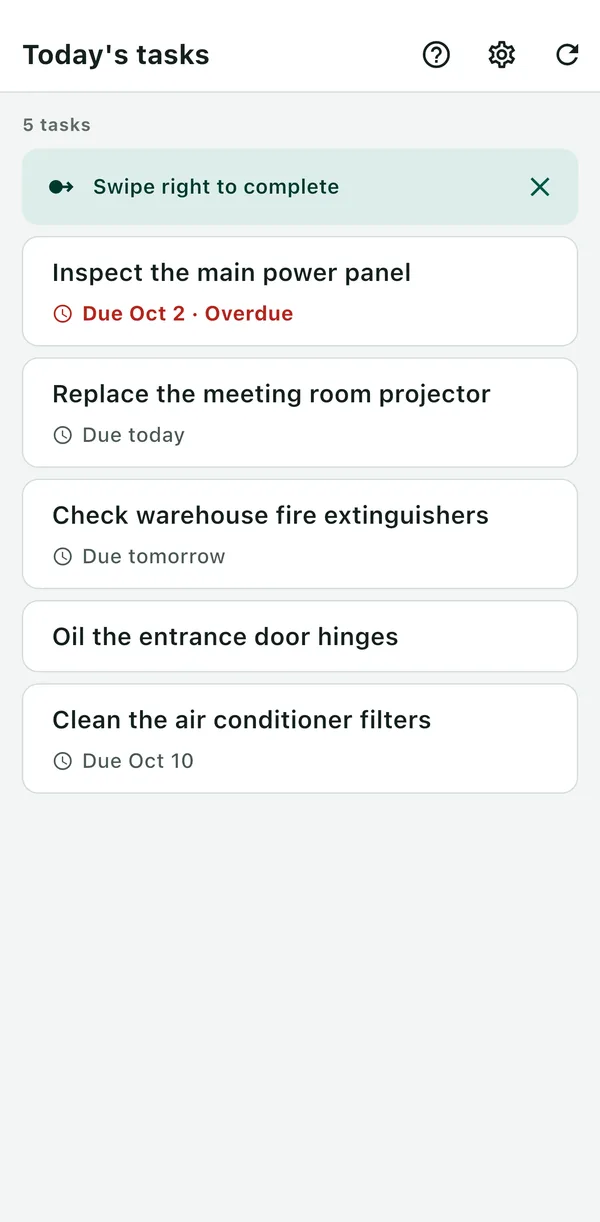
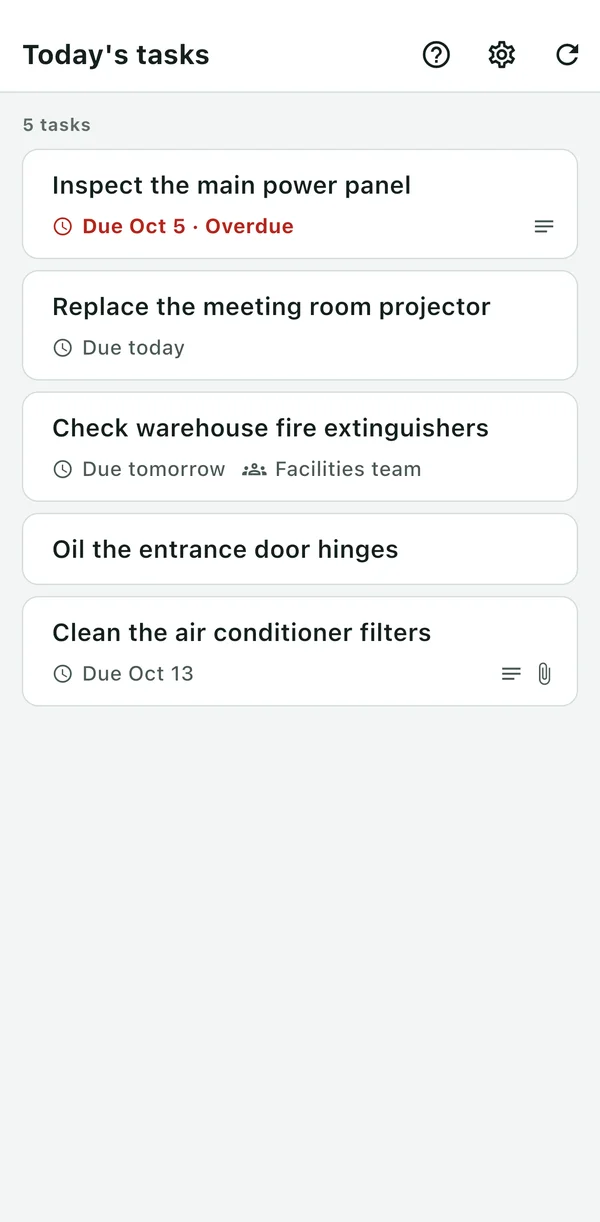
PBI-040 グループ担当のタスクと作業内容を、App Storeの利用者が使える（1.2.0の準備） (#49)
* feat: PBI-040 1.2.0の準備（言語別のフォルダ、審査用の模擬の作業内容とグループ、サポートと訳）

* feat: PBI-040 スクリーンショットを6言語で撮り直し、公開サイトの画像を作るスクリプトを足す

* feat: PBI-040 リリースの確認・アップロードのスクリプトとskillを足し、手順と完了条件を書く

* docs: PBI-040 のPRをバックログに書く

* fix: PBI-040 アップロードは、今のmainから変更なしで作ったアーカイブだけにする

archiveで作成元のコミット・変更の有無・中身の指紋を記録し、uploadで照合する。
作業ツリーに変更がある状態で作り、あとでmainに戻したアーカイブを送れていた（PRレビューの指摘）。

---------

diff --git a/fr/index.html b/fr/index.html
@@ -11,8 +11,8 @@
 <nav class="langs" aria-label="Language"><a href="../" hreflang="ja" lang="ja">日本語</a><a href="../en/" hreflang="en" lang="en">English</a><span aria-current="true" lang="fr">Français</span><a href="../de/" hreflang="de" lang="de">Deutsch</a><a href="../ko/" hreflang="ko" lang="ko">한국어</a><a href="../zh-hant/" hreflang="zh-Hant" lang="zh-Hant">繁體中文</a></nav>
 <p>Une application pour rendre compte, depuis votre iPhone et en quelques gestes, des tâches Redmine qui vous sont assignées. BeatMine n'est pas une application officielle de Redmine et n'a aucun lien avec les développeurs de Redmine.</p>
 <p><a class="button" href="https://apps.apple.com/app/id6815222410">Télécharger dans l’App Store</a></p>
-<ul class="points"><li>Seules vos tâches non terminées sont listées. Les tâches en retard apparaissent en rouge.</li><li>Balayez une tâche vers la droite pour la terminer. Vous pouvez annuler aussitôt.</li><li>Touchez une tâche pour envoyer un commentaire. Il est conservé dans l'historique de Redmine.</li></ul>
-<div class="shots"><figure><img src="../assets/screen-01-fr.webp" width="600" height="1222" alt="La liste des tâches du jour. Les tâches en retard s&#x27;affichent en rouge."><figcaption>Tâches du jour</figcaption></figure><figure><img src="../assets/screen-02-fr.webp" width="600" height="1222" alt="L&#x27;écran qui s&#x27;ouvre quand on touche une tâche, avec les boutons « Terminer » et « Commentaire »."><figcaption>Touchez pour terminer ou commenter</figcaption></figure></div>
+<ul class="points"><li>Seules les tâches non terminées qui vous sont assignées, à vous ou à un groupe dont vous faites partie, sont listées. Les tâches d'un groupe indiquent le nom du groupe. Les tâches en retard apparaissent en rouge.</li><li>Balayez une tâche vers la droite pour la terminer. Vous pouvez annuler aussitôt.</li><li>Touchez une tâche pour lire sa description et ses pièces jointes. Les images s'ouvrent dans l'app et peuvent être agrandies. Une icône signale les tâches qui ont une description ou des pièces jointes.</li><li>Touchez une tâche pour envoyer un commentaire. Il est conservé dans l'historique de Redmine.</li></ul>
+<div class="shots"><figure><img src="../assets/screen-01-fr.webp" width="600" height="1222" alt="La liste des tâches du jour. Les tâches en retard s&#x27;affichent en rouge."><figcaption>Tâches du jour</figcaption></figure><figure><img src="../assets/screen-02-fr.webp" width="600" height="1222" alt="L&#x27;écran qui s&#x27;ouvre quand on touche une tâche, avec sa description, ses pièces jointes et les boutons « Terminer » et « Commentaire »."><figcaption>Touchez pour voir le détail, terminer ou commenter</figcaption></figure></div>
 <nav class="toc" aria-label="Sur cette page"><a href="#need">Ce qu'il vous faut</a><a href="#start">Pour commencer</a><a href="#trouble">En cas de problème</a><a href="#faq">Autres questions fréquentes</a><a href="#unsupported">Non pris en charge</a><a href="#contact">Contact</a></nav>
 <h2 id="need">Ce qu'il vous faut</h2>
 <ul><li>Redmine 6.0, 6.1 ou 7.0.</li><li>Un accès HTTPS à ce Redmine depuis cet appareil.</li><li>L'API REST activée dans Redmine (un réglage de l'administrateur de Redmine).</li><li>Votre clé d'API. Si vous ne l'avez pas sous la main, utilisez « Obtenir la clé d'API dans Redmine » sur l'écran de connexion.</li></ul>
@@ -40,11 +40,19 @@
 <tr><td>« Impossible de confirmer l'envoi. Veuillez recharger. »</td><td>L'application n'a pas pu confirmer que la mise à jour est arrivée dans Redmine. Recharger permet de le vérifier à nouveau.<ul><li>Si Redmine est accessible mais que l'application ne peut toujours pas confirmer la mise à jour, elle cesse la vérification pour que vous puissiez continuer.</li><li>Tant que Redmine est inaccessible (sans réseau, par exemple), vous ne pouvez ni terminer ni commenter d'autres tâches avant la confirmation. Toutefois, si deux rechargements de suite ne permettent pas de confirmer, l'application cesse la vérification (le compte continue même si vous rouvrez l'application).</li><li>Un commentaire dont la vérification a cessé reste en brouillon. Il est peut-être déjà arrivé : le renvoyer peut créer un doublon.</li></ul></td></tr>
 <tr><td>« Erreur de l'application. Veuillez recharger. »</td><td>Si recharger ne règle rien, votre Redmine n'est peut-être pas pris en charge (antérieur à 6.0, par exemple).</td></tr>
 </table></div>
+<h3>Lors de l'affichage des descriptions et des pièces jointes</h3>
+<div class="table"><table><tr><th>Message</th><th>Ce que vous pouvez faire</th></tr>
+<tr><td>« Impossible d'ouvrir dans l'app »</td><td>Seules les images (JPEG, PNG, GIF, WebP, HEIC) de 20 Mo au plus s'ouvrent dans l'app. Ouvrez les PDF et les autres fichiers dans Redmine.</td></tr>
+<tr><td>« Impossible d'ouvrir le lien. »</td><td>Un lien de la description n'a pas pu s'ouvrir dans le navigateur de l'appareil. Le texte de la description peut être sélectionné et copié par un appui long ; collez-le dans le navigateur.</td></tr>
+</table></div>
+<p>Les messages comme « Erreur réseau » à l'ouverture d'une image ont le même sens que dans « Lors du chargement des tâches, de leur clôture ou de l'envoi d'un commentaire ». Touchez « Réessayer » pour recharger l'image.</p>
 <h2 id="faq">Autres questions fréquentes</h2>
 <dl>
 <dt>La tâche terminée a pris un statut inattendu (par exemple « Rejeté »)</dt><dd>l'application utilise le premier statut fermé autorisé pour cette tâche, dans l'ordre des statuts de Redmine. Le statut utilisé est indiqué dans la notification. Touchez « Annuler » sur la ligne terminée (ou dans la notification) pour revenir en arrière. Ce n'est plus possible après le rechargement de la liste, ou si Redmine n'autorise pas le retour au statut précédent. Dans ce cas, rétablissez le statut dans Redmine. Si l'administrateur de Redmine change l'ordre des statuts (en plaçant « Fermé » avant « Rejeté »), un autre statut est choisi.</dd>
 <dt>Redmine m'a demandé mon mot de passe pour afficher la clé d'API (Redmine 7.0)</dt><dd>Redmine redemande le mot de passe lorsque la connexion date d'un certain temps. Saisissez-le pour afficher votre clé d'API.</dd>
-<dt>Des tâches n'apparaissent pas</dt><dd>la liste ne montre que les tâches qui vous sont assignées, non fermées et dont la date de début n'est pas dans le futur. Les tâches des projets fermés ne sont pas affichées. La liste n'est pas filtrée par échéance.</dd>
+<dt>Des tâches n'apparaissent pas</dt><dd>la liste ne montre que les tâches assignées à vous ou à un groupe dont vous faites partie, non fermées et dont la date de début n'est pas dans le futur. Les tâches des projets fermés ne sont pas affichées. La liste n'est pas filtrée par échéance.</dd>
+<dt>Qui se charge d'une tâche de groupe ?</dt><dd>l'application ne le décide pas. Mettez-vous d'accord au sein du groupe, ou réassignez la tâche à une personne dans Redmine. Une tâche de groupe terminée disparaît aussi de la liste des autres membres du groupe.</dd>
+<dt>Des symboles comme « h2. » ou « * » apparaissent dans une description</dt><dd>l'application met en forme les descriptions comme du Markdown, uniquement pour les titres, listes, gras, liens et code. Les descriptions écrites en Textile, les tableaux et les images intégrées s'affichent tels quels.</dd>
 <dt>Avant de céder ou de vous séparer de votre appareil</dt><dd>« Supprimer la connexion » dans « Réglages » efface de l'appareil votre clé d'API, vos brouillons de commentaires et les traces des envois non confirmés.</dd>
 </dl>
 <h2 id="unsupported">Non pris en charge</h2>

diff --git a/ko/index.html b/ko/index.html
@@ -11,8 +11,8 @@
 <nav class="langs" aria-label="Language"><a href="../" hreflang="ja" lang="ja">日本語</a><a href="../en/" hreflang="en" lang="en">English</a><a href="../fr/" hreflang="fr" lang="fr">Français</a><a href="../de/" hreflang="de" lang="de">Deutsch</a><span aria-current="true" lang="ko">한국어</span><a href="../zh-hant/" hreflang="zh-Hant" lang="zh-Hant">繁體中文</a></nav>
 <p>내게 배정된 Redmine 작업을 iPhone에서 간단한 조작으로 보고하는 앱입니다. BeatMine은 Redmine 공식 앱이 아니며, Redmine 개발자와 관련이 없습니다.</p>
 <p><a class="button" href="https://apps.apple.com/app/id6815222410">App Store에서 다운로드하기</a></p>
-<ul class="points"><li>내가 담당하는, 아직 끝나지 않은 작업만 표시됩니다. 기한이 지난 작업은 빨간색으로 표시됩니다.</li><li>작업을 오른쪽으로 밀면 완료됩니다. 바로 되돌릴 수 있습니다.</li><li>작업을 탭하면 댓글도 보낼 수 있습니다. 내용은 Redmine 이력에 남습니다.</li></ul>
-<div class="shots"><figure><img src="../assets/screen-01-ko.webp" width="600" height="1222" alt="오늘의 작업 목록. 기한이 지난 작업은 빨간색으로 표시됩니다."><figcaption>오늘의 작업</figcaption></figure><figure><img src="../assets/screen-02-ko.webp" width="600" height="1222" alt="작업을 탭하면 나타나는 화면. ‘완료’와 ‘댓글’ 버튼이 있습니다."><figcaption>탭하여 완료하거나 댓글 남기기</figcaption></figure></div>
+<ul class="points"><li>나 또는 내가 속한 그룹이 담당하는, 아직 끝나지 않은 작업만 표시됩니다. 그룹 담당 작업에는 그룹 이름이 표시됩니다. 기한이 지난 작업은 빨간색으로 표시됩니다.</li><li>작업을 오른쪽으로 밀면 완료됩니다. 바로 되돌릴 수 있습니다.</li><li>작업을 탭하면 작업의 설명과 첨부 파일을 읽을 수 있습니다. 이미지는 앱에서 열어 확대할 수 있습니다. 설명이나 첨부가 있는 작업에는 줄에 표시가 나옵니다.</li><li>작업을 탭하면 댓글도 보낼 수 있습니다. 내용은 Redmine 이력에 남습니다.</li></ul>
+<div class="shots"><figure><img src="../assets/screen-01-ko.webp" width="600" height="1222" alt="오늘의 작업 목록. 기한이 지난 작업은 빨간색으로 표시됩니다."><figcaption>오늘의 작업</figcaption></figure><figure><img src="../assets/screen-02-ko.webp" width="600" height="1222" alt="작업을 탭하면 나타나는 화면. 설명과 첨부 파일, ‘완료’와 ‘댓글’ 버튼이 있습니다."><figcaption>탭하여 내용 확인·완료·댓글</figcaption></figure></div>
 <nav class="toc" aria-label="이 페이지의 내용"><a href="#need">필요한 것</a><a href="#start">시작하기</a><a href="#trouble">문제가 생겼을 때</a><a href="#faq">그 밖의 자주 묻는 질문</a><a href="#unsupported">지원하지 않는 것</a><a href="#contact">문의</a></nav>
 <h2 id="need">필요한 것</h2>
 <ul><li>Redmine 6.0·6.1·7.0 중 하나.</li><li>이 기기에서 해당 Redmine을 HTTPS로 열 수 있을 것.</li><li>Redmine에서 REST API가 활성화되어 있을 것(Redmine 관리자의 설정).</li><li>내 API 키. 없으면 연결 화면의 ‘Redmine에서 API 키 받기’에서 받을 수 있습니다.</li></ul>
@@ -40,11 +40,19 @@
 <tr><td>‘전송 완료를 확인할 수 없습니다. 새로고침하세요.’</td><td>보낸 내용이 Redmine에 반영되었는지 확인하지 못한 상태입니다. 새로고침하면 다시 확인합니다.<ul><li>Redmine에 접속할 수 있는데도 반영되었는지 확인할 수 없으면, 그 전송의 확인을 그만두고 다음 보고를 계속할 수 있습니다.</li><li>신호가 없는 등 Redmine에 접속할 수 없는 동안에는, 확인될 때까지 다른 작업을 완료하거나 댓글을 달 수 없습니다. 다만 새로고침으로 두 번 연속 확인하지 못하면, 그 전송의 확인을 그만둡니다(앱을 다시 열어도 횟수는 이어집니다).</li><li>확인을 그만둔 댓글은 임시 저장본으로 남습니다. 실제로는 이미 전송되었을 수 있어, 다시 보내면 중복될 수 있습니다.</li></ul></td></tr>
 <tr><td>‘앱 오류입니다. 새로고침하세요.’</td><td>새로고침해도 해결되지 않으면 지원하지 않는 Redmine(6.0 이전 등)일 수 있습니다.</td></tr>
 </table></div>
+<h3>설명·첨부 파일을 볼 때</h3>
+<div class="table"><table><tr><th>화면에 표시되는 문구</th><th>할 수 있는 일</th></tr>
+<tr><td>‘앱에서 열 수 없습니다’</td><td>앱에서 열 수 있는 것은 20MB까지의 이미지(JPEG·PNG·GIF·WebP·HEIC)뿐입니다. PDF 등 다른 파일은 Redmine 화면에서 여세요.</td></tr>
+<tr><td>‘링크를 열 수 없습니다.’</td><td>설명 속 링크를 기기의 브라우저에서 열지 못했습니다. 설명의 글은 길게 눌러 선택하고 복사할 수 있으니, 브라우저에 붙여 넣어 여세요.</td></tr>
+</table></div>
+<p>이미지를 열 때의 ‘네트워크 오류’ 등은 위의 ‘불러오기·완료·댓글을 할 때’와 같습니다. ‘다시 시도’로 다시 불러올 수 있습니다.</p>
 <h2 id="faq">그 밖의 자주 묻는 질문</h2>
 <dl>
 <dt>완료했더니 의도하지 않은 상태(‘거절’ 등)가 되었다</dt><dd>그 작업에서 변경할 수 있는 종료 상태 중, Redmine의 상태 순서에서 첫 번째 것을 사용합니다. 어떤 상태로 했는지는 완료 알림에 표시됩니다. 완료한 줄의 ‘되돌리기’(또는 완료 알림의 ‘취소’)로 되돌릴 수 있습니다. 다만 목록을 새로고침한 뒤나, Redmine에서 원래 상태로 되돌리는 변경이 허용되지 않을 때는 되돌릴 수 없습니다. 그때는 Redmine 화면에서 되돌리세요. Redmine 관리자가 상태 순서를 바꾸면(‘완료’를 ‘거절’보다 위로) 선택되는 상태가 바뀝니다.</dd>
 <dt>API 키를 받을 때 비밀번호 입력을 요구받았다(Redmine 7.0)</dt><dd>로그인 후 시간이 지나면 Redmine이 비밀번호 재입력을 요청합니다. 입력하면 API 키가 표시됩니다.</dd>
-<dt>목록에 나오지 않는 작업이 있다</dt><dd>나에게 할당되어 있고, 아직 완료되지 않았으며, 시작일이 미래가 아닌 작업만 표시합니다. 종료된 프로젝트의 작업도 표시하지 않습니다. 기한으로는 거르지 않습니다.</dd>
+<dt>목록에 나오지 않는 작업이 있다</dt><dd>나 또는 내가 속한 그룹에 할당되어 있고, 아직 완료되지 않았으며, 시작일이 미래가 아닌 작업만 표시합니다. 종료된 프로젝트의 작업도 표시하지 않습니다. 기한으로는 거르지 않습니다.</dd>
+<dt>그룹의 작업은 누가 하나요</dt><dd>앱에서는 정하지 않습니다. 그룹 안에서 이야기하거나, Redmine에서 담당자를 개인으로 바꾸세요. 그룹의 작업을 완료하면 같은 그룹의 다른 사람 목록에서도 사라집니다.</dd>
+<dt>설명에 ‘h2.’, ‘*’ 같은 기호가 나온다</dt><dd>앱은 설명을 Markdown으로 보고, 제목·목록·굵은 글씨·링크·코드만 정리합니다. Textile로 쓰는 조직의 Redmine이나 표·삽입된 이미지는 기호 그대로 나옵니다.</dd>
 <dt>기기를 다른 사람에게 넘기거나 처분할 때</dt><dd>‘설정’의 ‘연결 삭제’로 API 키·댓글 임시 저장본·확인되지 않은 전송 기록이 기기에서 삭제됩니다.</dd>
 </dl>
 <h2 id="unsupported">지원하지 않는 것</h2>

diff --git a/index.html b/index.html
@@ -11,8 +11,8 @@
 <nav class="langs" aria-label="Language"><span aria-current="true" lang="ja">日本語</span><a href="en/" hreflang="en" lang="en">English</a><a href="fr/" hreflang="fr" lang="fr">Français</a><a href="de/" hreflang="de" lang="de">Deutsch</a><a href="ko/" hreflang="ko" lang="ko">한국어</a><a href="zh-hant/" hreflang="zh-Hant" lang="zh-Hant">繁體中文</a></nav>
 <p>自分が担当するRedmineのタスクを、iPhoneから短い操作で報告するアプリです。本アプリはRedmineの公式アプリではなく、Redmineの開発者とは関係ありません。</p>
 <p><a class="button" href="https://apps.apple.com/app/id6815222410">App Storeからダウンロード</a></p>
-<ul class="points"><li>自分が担当する、まだ終わっていないタスクだけが並ぶ。期限を過ぎたものは赤で出る。</li><li>行を右へスワイプすると完了。すぐ取り消せる。</li><li>行をタップすると、コメントも送れる。内容はRedmineの履歴に残る。</li></ul>
-<div class="shots"><figure><img src="assets/screen-01.webp" width="600" height="1222" alt="今日のタスクの一覧。期限を過ぎたタスクは赤で出る"><figcaption>今日のタスク</figcaption></figure><figure><img src="assets/screen-02.webp" width="600" height="1222" alt="タスクをタップして出る画面。「完了」と「コメント」のボタンがある"><figcaption>タップで完了・コメント</figcaption></figure></div>
+<ul class="points"><li>自分か、自分が入っているグループが担当する、まだ終わっていないタスクだけが並ぶ。グループの担当には、グループ名が出る。期限を過ぎたものは赤で出る。</li><li>行を右へスワイプすると完了。すぐ取り消せる。</li><li>行をタップすると、タスクの説明と添付ファイルを読める。画像はアプリの中で開いて拡大できる。説明や添付があるタスクには、行に印が出る。</li><li>行をタップすると、コメントも送れる。内容はRedmineの履歴に残る。</li></ul>
+<div class="shots"><figure><img src="assets/screen-01.webp" width="600" height="1222" alt="今日のタスクの一覧。期限を過ぎたタスクは赤で出る"><figcaption>今日のタスク</figcaption></figure><figure><img src="assets/screen-02.webp" width="600" height="1222" alt="タスクをタップして出る画面。説明と添付ファイル、「完了」と「コメント」のボタンがある"><figcaption>タップで作業内容・完了・コメント</figcaption></figure></div>
 <nav class="toc" aria-label="このページの内容"><a href="#need">必要なもの</a><a href="#start">使い始める</a><a href="#trouble">つまずいたとき</a><a href="#faq">よくあること</a><a href="#unsupported">対応していないもの</a><a href="#contact">お問い合わせ</a></nav>
 <h2 id="need">使い始めるために必要なもの</h2>
 <ul><li>Redmine 6.0・6.1・7.0のどれか。</li><li>そのRedmineを、この端末からHTTPSで開けること。</li><li>RedmineでREST APIが有効になっていること（Redmineの管理者の設定）。</li><li>自分のAPIキー。手元になければ、接続の画面の「APIキーをRedmineで取得」から取れる。</li></ul>
@@ -40,11 +40,19 @@
 <tr><td>「送信完了を確認できませんでした。再読み込みしてください。」</td><td>送った結果が分からない状態。再読み込みすると、届いていたかを確かめる。<ul><li>Redmineを読めたのに反映を確認できなかったときは、その送信の確認をやめて、次の報告を続けられる。</li><li>圏外などでRedmineを読めないときは、確かめられるまで次の完了・コメントはできない。ただし、再読み込みで2回続けて確かめられなければ、その送信の確認をやめる（回数は、アプリを開き直しても数える）。</li><li>確認をやめたコメントは、下書きに残る。実は届いていることがあり、送り直すと二重になることがある。</li></ul></td></tr>
 <tr><td>「アプリのエラーです。再読み込みしてください。」</td><td>再読み込みしても直らないときは、対応していないRedmine（6.0より前など）の可能性がある。</td></tr>
 </table></div>
+<h3>説明・添付ファイルを見るとき</h3>
+<div class="table"><table><tr><th>画面に出る文</th><th>できること</th></tr>
+<tr><td>「アプリでは開けません」</td><td>アプリで開けるのは、20 MBまでの画像（JPEG・PNG・GIF・WebP・HEIC）だけ。PDFなどほかのファイルは、Redmineの画面から開く。</td></tr>
+<tr><td>「リンクを開けませんでした。」</td><td>説明の中のリンクを、端末のブラウザで開けなかった。説明の文は長押しで選んでコピーできるので、ブラウザに貼り付けて開く。</td></tr>
+</table></div>
+<p>画像を開くときの「ネットワークエラー」などは、上の「読み込み・完了・コメントのとき」と同じ。「再試行」で取り直せる。</p>
 <h2 id="faq">そのほか、よくあること</h2>
 <dl>
 <dt>完了したら、意図しない状態（「却下」など）になった</dt><dd>そのタスクで変更できる終了扱いの状態のうち、Redmineの状態の並び順で最初のものを使います。どの状態にしたかは、完了の通知に出ます。完了した行の「戻す」（または完了の通知の「取り消す」）で元に戻せます。ただし、一覧を再読み込みした後や、Redmineで元の状態へ戻す変更が許されていないときは取り消せません。そのときは、Redmineの画面から戻してください。Redmineの管理者が状態の並び順を変える（「完了」を「却下」より上にする）と、選ばれる状態が変わります。</dd>
 <dt>APIキーを取るときにパスワードを聞かれた（Redmine 7.0）</dt><dd>ログインしてから時間がたつと、Redmineがパスワードの再入力を求めます。入力すればAPIキーが表示されます。</dd>
-<dt>一覧に出ないタスクがある</dt><dd>自分が担当で、まだ完了しておらず、開始日が未来でないタスクだけを出しています。終了したプロジェクトのタスクも出しません。期限では絞っていません。</dd>
+<dt>一覧に出ないタスクがある</dt><dd>自分か、自分が入っているグループが担当で、まだ完了しておらず、開始日が未来でないタスクだけを出しています。終了したプロジェクトのタスクも出しません。期限では絞っていません。</dd>
+<dt>グループのタスクを誰がやるか</dt><dd>アプリでは決めません。グループの中で声をかけるか、Redmineで担当を個人に付け替えてください。グループのタスクを完了すると、同じグループのほかの人の一覧からも消えます。</dd>
+<dt>説明に「h2.」「*」などの記号が出る</dt><dd>アプリは説明をMarkdownとして、見出し・箇条書き・太字・リンク・コードだけを整えます。Textileで書く組織のRedmineや、表・埋め込みの画像は、記号のまま出ます。</dd>
 <dt>端末を手放すとき</dt><dd>設定の「接続を削除」で、APIキー・コメントの下書き・未確認の送信の記録が端末から消えます。</dd>
 </dl>
 <h2 id="unsupported">対応していないもの</h2>

diff --git a/de/index.html b/de/index.html
@@ -11,8 +11,8 @@
 <nav class="langs" aria-label="Language"><a href="../" hreflang="ja" lang="ja">日本語</a><a href="../en/" hreflang="en" lang="en">English</a><a href="../fr/" hreflang="fr" lang="fr">Français</a><span aria-current="true" lang="de">Deutsch</span><a href="../ko/" hreflang="ko" lang="ko">한국어</a><a href="../zh-hant/" hreflang="zh-Hant" lang="zh-Hant">繁體中文</a></nav>
 <p>Eine App, mit der Sie die Ihnen zugewiesenen Redmine-Aufgaben mit wenigen Handgriffen vom iPhone aus melden. BeatMine ist keine offizielle Redmine-App und steht in keiner Verbindung zu den Redmine-Entwicklern.</p>
 <p><a class="button" href="https://apps.apple.com/app/id6815222410">Laden im App Store</a></p>
-<ul class="points"><li>Es werden nur Ihre eigenen, noch offenen Aufgaben angezeigt. Überfällige Aufgaben erscheinen rot.</li><li>Wischen Sie eine Aufgabe nach rechts, um sie zu erledigen. Sie können das sofort rückgängig machen.</li><li>Tippen Sie auf eine Aufgabe, um einen Kommentar zu senden. Er wird in der Redmine-Historie gespeichert.</li></ul>
-<div class="shots"><figure><img src="../assets/screen-01-de.webp" width="600" height="1222" alt="Die Liste der heutigen Aufgaben. Überfällige Aufgaben werden rot angezeigt."><figcaption>Heutige Aufgaben</figcaption></figure><figure><img src="../assets/screen-02-de.webp" width="600" height="1222" alt="Der Bildschirm, der sich beim Antippen einer Aufgabe öffnet, mit den Schaltflächen „Erledigen“ und „Kommentar“."><figcaption>Antippen zum Erledigen oder Kommentieren</figcaption></figure></div>
+<ul class="points"><li>Es werden nur offene Aufgaben angezeigt, die Ihnen oder einer Ihrer Gruppen zugewiesen sind. Bei Gruppenaufgaben steht der Gruppenname dabei. Überfällige Aufgaben erscheinen rot.</li><li>Wischen Sie eine Aufgabe nach rechts, um sie zu erledigen. Sie können das sofort rückgängig machen.</li><li>Tippen Sie auf eine Aufgabe, um Beschreibung und Anhänge zu lesen. Bilder öffnen sich in der App und lassen sich vergrößern. Aufgaben mit Beschreibung oder Anhängen tragen ein Symbol in der Zeile.</li><li>Tippen Sie auf eine Aufgabe, um einen Kommentar zu senden. Er wird in der Redmine-Historie gespeichert.</li></ul>
+<div class="shots"><figure><img src="../assets/screen-01-de.webp" width="600" height="1222" alt="Die Liste der heutigen Aufgaben. Überfällige Aufgaben werden rot angezeigt."><figcaption>Heutige Aufgaben</figcaption></figure><figure><img src="../assets/screen-02-de.webp" width="600" height="1222" alt="Der Bildschirm, der sich beim Antippen einer Aufgabe öffnet, mit Beschreibung, Anhängen und den Schaltflächen „Erledigen“ und „Kommentar“."><figcaption>Antippen für Details, Erledigen oder Kommentieren</figcaption></figure></div>
 <nav class="toc" aria-label="Auf dieser Seite"><a href="#need">Was Sie brauchen</a><a href="#start">Erste Schritte</a><a href="#trouble">Wenn etwas nicht klappt</a><a href="#faq">Weitere häufige Fragen</a><a href="#unsupported">Nicht unterstützt</a><a href="#contact">Kontakt</a></nav>
 <h2 id="need">Was Sie brauchen</h2>
 <ul><li>Redmine 6.0, 6.1 oder 7.0.</li><li>HTTPS-Zugriff auf dieses Redmine von diesem Gerät aus.</li><li>Eine in Redmine aktivierte REST-API (eine Einstellung Ihres Redmine-Administrators).</li><li>Ihr API-Schlüssel. Falls Sie ihn nicht zur Hand haben, nutzen Sie „API-Schlüssel in Redmine abrufen“ auf dem Verbindungsbildschirm.</li></ul>
@@ -40,11 +40,19 @@
 <tr><td>„Senden konnte nicht bestätigt werden. Bitte neu laden.“</td><td>Die App konnte nicht bestätigen, ob Ihre Änderung in Redmine angekommen ist. Durch Neuladen wird das erneut geprüft.<ul><li>Ist Redmine erreichbar, kann die App die Änderung aber weiterhin nicht bestätigen, beendet sie die Prüfung, damit Sie weitermachen können.</li><li>Solange Redmine nicht erreichbar ist (z. B. ohne Empfang), können Sie bis zur Bestätigung keine weiteren Aufgaben erledigen oder kommentieren. Lässt sich die Änderung jedoch bei zwei aufeinanderfolgenden Neuladevorgängen nicht bestätigen, beendet die App die Prüfung (gezählt wird auch über einen Neustart der App hinweg).</li><li>Ein Kommentar, dessen Prüfung beendet wurde, bleibt als Entwurf erhalten. Er ist möglicherweise schon angekommen; erneutes Senden kann ihn doppelt anlegen.</li></ul></td></tr>
 <tr><td>„Fehler in der App. Bitte neu laden.“</td><td>Hilft Neuladen nicht, wird Ihr Redmine möglicherweise nicht unterstützt (z. B. älter als 6.0).</td></tr>
 </table></div>
+<h3>Beim Ansehen von Beschreibungen und Anhängen</h3>
+<div class="table"><table><tr><th>Meldung</th><th>Was Sie tun können</th></tr>
+<tr><td>„Kann nicht in der App geöffnet werden“</td><td>In der App öffnen sich nur Bilder (JPEG, PNG, GIF, WebP, HEIC) bis 20 MB. Öffnen Sie PDFs und andere Dateien in Redmine.</td></tr>
+<tr><td>„Der Link konnte nicht geöffnet werden.“</td><td>Ein Link in der Beschreibung ließ sich im Browser des Geräts nicht öffnen. Den Text der Beschreibung können Sie lange drücken, markieren und kopieren und dann im Browser einfügen.</td></tr>
+</table></div>
+<p>Meldungen wie „Netzwerkfehler“ beim Öffnen eines Bildes bedeuten dasselbe wie unter „Beim Laden, Erledigen oder Kommentieren“. Mit „Erneut versuchen“ wird das Bild neu geladen.</p>
 <h2 id="faq">Weitere häufige Fragen</h2>
 <dl>
 <dt>Beim Erledigen wurde ein unerwarteter Status gesetzt (z. B. „Abgewiesen“)</dt><dd>Die App verwendet den ersten geschlossenen Status, den Sie für diese Aufgabe setzen dürfen, in der Statusreihenfolge von Redmine. Der verwendete Status steht in der Benachrichtigung. Mit „Zurück“ in der erledigten Zeile (oder „Rückgängig“ in der Benachrichtigung) machen Sie das rückgängig. Nach dem Neuladen der Liste oder wenn Redmine das Zurücksetzen des Status nicht erlaubt, ist das nicht mehr möglich. Setzen Sie den Status dann in Redmine zurück. Ändert Ihr Redmine-Administrator die Statusreihenfolge („Erledigt“ vor „Abgewiesen“), wird ein anderer Status gewählt.</dd>
 <dt>Beim Abrufen des API-Schlüssels wurde mein Passwort abgefragt (Redmine 7.0)</dt><dd>Redmine fragt einige Zeit nach der Anmeldung erneut nach dem Passwort. Geben Sie es ein, um den API-Schlüssel zu sehen.</dd>
-<dt>Manche Aufgaben fehlen in der Liste</dt><dd>Angezeigt werden nur Aufgaben, die Ihnen zugewiesen und nicht geschlossen sind und deren Startdatum nicht in der Zukunft liegt. Aufgaben abgeschlossener Projekte werden nicht angezeigt. Nach Fälligkeit wird nicht gefiltert.</dd>
+<dt>Manche Aufgaben fehlen in der Liste</dt><dd>Angezeigt werden nur Aufgaben, die Ihnen oder einer Ihrer Gruppen zugewiesen und nicht geschlossen sind und deren Startdatum nicht in der Zukunft liegt. Aufgaben abgeschlossener Projekte werden nicht angezeigt. Nach Fälligkeit wird nicht gefiltert.</dd>
+<dt>Wer erledigt eine Gruppenaufgabe?</dt><dd>Das entscheidet die App nicht. Sprechen Sie sich in der Gruppe ab oder weisen Sie die Aufgabe in Redmine einer Person zu. Wird eine Gruppenaufgabe erledigt, verschwindet sie auch aus der Liste der anderen Gruppenmitglieder.</dd>
+<dt>In einer Beschreibung erscheinen Zeichen wie „h2.“ oder „*“</dt><dd>Die App formatiert Beschreibungen als Markdown, und zwar nur Überschriften, Listen, Fettdruck, Links und Code. In Textile geschriebene Beschreibungen, Tabellen und eingebettete Bilder werden als reiner Text angezeigt.</dd>
 <dt>Bevor Sie Ihr Gerät weitergeben</dt><dd>„Verbindung löschen“ unter „Einstellungen“ löscht API-Schlüssel, Kommentarentwürfe und Aufzeichnungen unbestätigter Vorgänge vom Gerät.</dd>
 </dl>
 <h2 id="unsupported">Nicht unterstützt</h2>

diff --git a/en/index.html b/en/index.html
@@ -11,8 +11,8 @@
 <nav class="langs" aria-label="Language"><a href="../" hreflang="ja" lang="ja">日本語</a><span aria-current="true" lang="en">English</span><a href="../fr/" hreflang="fr" lang="fr">Français</a><a href="../de/" hreflang="de" lang="de">Deutsch</a><a href="../ko/" hreflang="ko" lang="ko">한국어</a><a href="../zh-hant/" hreflang="zh-Hant" lang="zh-Hant">繁體中文</a></nav>
 <p>An app for reporting on the Redmine tasks assigned to you from your iPhone, in just a few taps. BeatMine is not an official Redmine app and is not affiliated with the Redmine developers.</p>
 <p><a class="button" href="https://apps.apple.com/app/id6815222410">Download on the App Store</a></p>
-<ul class="points"><li>Only your own unfinished tasks are listed. Overdue tasks are shown in red.</li><li>Swipe a task right to complete it. You can undo it right away.</li><li>Tap a task to send a comment. It is saved in the Redmine history.</li></ul>
-<div class="shots"><figure><img src="../assets/screen-01-en.webp" width="600" height="1222" alt="The list of today&#x27;s tasks. Overdue tasks are shown in red."><figcaption>Today's tasks</figcaption></figure><figure><img src="../assets/screen-02-en.webp" width="600" height="1222" alt="The screen that opens when you tap a task, with “Complete” and “Comment” buttons."><figcaption>Tap to complete or comment</figcaption></figure></div>
+<ul class="points"><li>Only unfinished tasks assigned to you, or to a group you belong to, are listed. Tasks assigned to a group show the group name. Overdue tasks are shown in red.</li><li>Swipe a task right to complete it. You can undo it right away.</li><li>Tap a task to read its description and attachments. Images open in the app and can be zoomed. Tasks with a description or attachments show an icon on their row.</li><li>Tap a task to send a comment. It is saved in the Redmine history.</li></ul>
+<div class="shots"><figure><img src="../assets/screen-01-en.webp" width="600" height="1222" alt="The list of today&#x27;s tasks. Overdue tasks are shown in red."><figcaption>Today's tasks</figcaption></figure><figure><img src="../assets/screen-02-en.webp" width="600" height="1222" alt="The screen that opens when you tap a task, with its description and attachments, and “Complete” and “Comment” buttons."><figcaption>Tap to see details, complete or comment</figcaption></figure></div>
 <nav class="toc" aria-label="On this page"><a href="#need">What you need</a><a href="#start">Getting started</a><a href="#trouble">If something goes wrong</a><a href="#faq">Other common questions</a><a href="#unsupported">Not supported</a><a href="#contact">Contact</a></nav>
 <h2 id="need">What you need</h2>
 <ul><li>Redmine 6.0, 6.1 or 7.0.</li><li>You can open that Redmine over HTTPS from this device.</li><li>The REST API is enabled in Redmine (a setting for your Redmine administrator).</li><li>Your API key. If you don't have it at hand, use “Get the API key in Redmine” on the connection screen.</li></ul>
@@ -40,11 +40,19 @@
 <tr><td>“Couldn't confirm that it was sent. Please reload.”</td><td>The app couldn't confirm whether your update reached Redmine. Reloading checks again.<ul><li>If Redmine can be reached but the app still can't confirm the update, it stops checking so you can carry on with your next report.</li><li>While Redmine can't be reached (for example, with no signal), you can't complete or comment on other tasks until the update is confirmed. However, if two reloads in a row can't confirm it, the app stops checking (the count continues even if you reopen the app).</li><li>A comment the app stopped checking stays as a draft. It may actually have arrived, so sending it again may post it twice.</li></ul></td></tr>
 <tr><td>“Something went wrong in the app. Please reload.”</td><td>If reloading doesn't fix it, your Redmine may not be supported (for example, older than 6.0).</td></tr>
 </table></div>
+<h3>When viewing descriptions and attachments</h3>
+<div class="table"><table><tr><th>Message</th><th>What you can do</th></tr>
+<tr><td>“Can't open in the app”</td><td>Only images (JPEG, PNG, GIF, WebP, HEIC) up to 20 MB open in the app. Open PDFs and other files in Redmine.</td></tr>
+<tr><td>“Couldn't open the link.”</td><td>A link in the description couldn't be opened in the device's browser. You can select and copy the description text with a long press, then paste it into the browser.</td></tr>
+</table></div>
+<p>Messages such as “Network error” when opening an image mean the same as under “When loading, completing or commenting”. Tap “Try again” to load it again.</p>
 <h2 id="faq">Other common questions</h2>
 <dl>
 <dt>A completed task got an unexpected status (such as “Rejected”)</dt><dd>The app uses the first closed status you're allowed to set for that task, in Redmine's status order. The status used is shown in the completion notice. Tap “Undo” on the completed task (or in the notice) to revert it. You can't undo after reloading the list, or if Redmine doesn't allow changing the status back. In that case, change it back in Redmine. If your Redmine administrator changes the status order (putting “Closed” above “Rejected”), a different status is chosen.</dd>
 <dt>I was asked for my password when getting the API key (Redmine 7.0)</dt><dd>Redmine asks for your password again some time after you sign in. Enter it to see your API key.</dd>
-<dt>Some tasks are missing from the list</dt><dd>The list shows only tasks assigned to you that are not closed and whose start date is not in the future. Tasks in closed projects are not shown. The list is not filtered by due date.</dd>
+<dt>Some tasks are missing from the list</dt><dd>The list shows only tasks assigned to you, or to a group you belong to, that are not closed and whose start date is not in the future. Tasks in closed projects are not shown. The list is not filtered by due date.</dd>
+<dt>Who does a group's task?</dt><dd>The app doesn't decide. Talk it over within the group, or reassign the task to a person in Redmine. When a group's task is completed, it also disappears from the lists of the other people in the group.</dd>
+<dt>Symbols such as “h2.” or “*” appear in a description</dt><dd>The app formats descriptions as Markdown, handling only headings, lists, bold text, links and code. Descriptions written in Textile, tables and embedded images are shown as plain text.</dd>
 <dt>Before passing on or disposing of your device</dt><dd>“Delete connection” in “Settings” removes your API key, comment drafts and records of unconfirmed updates from the device.</dd>
 </dl>
 <h2 id="unsupported">Not supported</h2>

diff --git a/zh-hant/index.html b/zh-hant/index.html
@@ -11,8 +11,8 @@
 <nav class="langs" aria-label="Language"><a href="../" hreflang="ja" lang="ja">日本語</a><a href="../en/" hreflang="en" lang="en">English</a><a href="../fr/" hreflang="fr" lang="fr">Français</a><a href="../de/" hreflang="de" lang="de">Deutsch</a><a href="../ko/" hreflang="ko" lang="ko">한국어</a><span aria-current="true" lang="zh-Hant">繁體中文</span></nav>
 <p>讓你在 iPhone 上用簡單的操作回報指派給自己的 Redmine 任務的 App。BeatMine 並非 Redmine 官方 App，與 Redmine 開發者無關。</p>
 <p><a class="button" href="https://apps.apple.com/app/id6815222410">在 App Store 下載</a></p>
-<ul class="points"><li>只列出自己負責、尚未完成的任務。超過期限的任務以紅色顯示。</li><li>將任務向右滑動即可完成，也能馬上取消。</li><li>點一下任務即可傳送留言，內容會記錄在 Redmine 的歷史中。</li></ul>
-<div class="shots"><figure><img src="../assets/screen-01-zh-hant.webp" width="600" height="1222" alt="今日任務的清單。逾期的任務以紅色顯示。"><figcaption>今日任務</figcaption></figure><figure><img src="../assets/screen-02-zh-hant.webp" width="600" height="1222" alt="點一下任務後出現的畫面，有「完成」與「留言」按鈕。"><figcaption>點一下即可完成或留言</figcaption></figure></div>
+<ul class="points"><li>只列出由自己或自己所屬群組負責、尚未完成的任務。群組負責的任務會顯示群組名稱。超過期限的任務以紅色顯示。</li><li>將任務向右滑動即可完成，也能馬上取消。</li><li>點一下任務，就能閱讀任務的描述與附件。圖片可以在 App 中開啟並放大。有描述或附件的任務，項目上會顯示圖示。</li><li>點一下任務即可傳送留言，內容會記錄在 Redmine 的歷史中。</li></ul>
+<div class="shots"><figure><img src="../assets/screen-01-zh-hant.webp" width="600" height="1222" alt="今日任務的清單。逾期的任務以紅色顯示。"><figcaption>今日任務</figcaption></figure><figure><img src="../assets/screen-02-zh-hant.webp" width="600" height="1222" alt="點一下任務後出現的畫面，有描述與附件，以及「完成」與「留言」按鈕。"><figcaption>點一下即可查看內容、完成或留言</figcaption></figure></div>
 <nav class="toc" aria-label="本頁內容"><a href="#need">需要準備的東西</a><a href="#start">開始使用</a><a href="#trouble">遇到問題時</a><a href="#faq">其他常見問題</a><a href="#unsupported">不支援的項目</a><a href="#contact">聯絡我們</a></nav>
 <h2 id="need">需要準備的東西</h2>
 <ul><li>Redmine 6.0、6.1、7.0 其中之一。</li><li>能從這台裝置以 HTTPS 開啟該 Redmine。</li><li>Redmine 已啟用 REST API（由 Redmine 管理員設定）。</li><li>自己的 API 金鑰。手邊沒有的話，可以從連線畫面的「在 Redmine 取得 API 金鑰」取得。</li></ul>
@@ -40,11 +40,19 @@
 <tr><td>「無法確認是否已傳送。請重新載入。」</td><td>無法確認這次的變更是否已送達 Redmine。重新載入會再次確認。<ul><li>如果能連上 Redmine，卻仍無法確認變更是否已反映，App 會停止確認這次傳送，讓你繼續下一個回報。</li><li>在沒有訊號等無法連上 Redmine 的期間，確認之前無法完成其他任務或留言。不過，如果連續兩次重新載入都無法確認，App 就會停止確認這次傳送（重新開啟 App 也會繼續計算次數）。</li><li>停止確認的留言會保留為草稿。它可能其實已經送達，重新傳送可能會重複。</li></ul></td></tr>
 <tr><td>「應用程式發生錯誤。請重新載入。」</td><td>重新載入仍無法解決時，可能是不支援的 Redmine（例如 6.0 之前的版本）。</td></tr>
 </table></div>
+<h3>查看描述與附件時</h3>
+<div class="table"><table><tr><th>畫面上顯示的文字</th><th>可以做的事</th></tr>
+<tr><td>「無法在 App 中開啟」</td><td>只有 20 MB 以內的圖片（JPEG、PNG、GIF、WebP、HEIC）能在 App 中開啟。PDF 等其他檔案，請在 Redmine 的畫面開啟。</td></tr>
+<tr><td>「無法開啟連結。」</td><td>無法在裝置的瀏覽器中開啟描述裡的連結。描述的文字可以長按選取並複製，請貼到瀏覽器中開啟。</td></tr>
+</table></div>
+<p>開啟圖片時出現的「網路錯誤」等訊息，與上面「載入、完成、留言時」相同。點「重試」即可重新載入。</p>
 <h2 id="faq">其他常見問題</h2>
 <dl>
 <dt>完成後變成了非預期的狀態（例如「已拒絕」）</dt><dd>會使用該任務可變更的結束狀態中，依 Redmine 狀態排序的第一個。設為哪個狀態會顯示在完成通知中。可以用已完成項目的「復原」（或完成通知的「取消」）恢復原狀。但重新載入清單之後，或 Redmine 不允許改回原本狀態時，就無法取消。這時請在 Redmine 的畫面上改回。Redmine 管理員變更狀態排序（把「已結束」排在「已拒絕」之前）後，選用的狀態就會改變。</dd>
 <dt>取得 API 金鑰時要求輸入密碼（Redmine 7.0）</dt><dd>登入一段時間後，Redmine 會要求重新輸入密碼。輸入後就會顯示 API 金鑰。</dd>
-<dt>清單中有些任務沒有出現</dt><dd>只顯示由自己負責、尚未結束，且開始日期不在未來的任務。已結束專案的任務也不會顯示。不依期限篩選。</dd>
+<dt>清單中有些任務沒有出現</dt><dd>只顯示由自己或自己所屬群組負責、尚未結束，且開始日期不在未來的任務。已結束專案的任務也不會顯示。不依期限篩選。</dd>
+<dt>群組的任務由誰來做</dt><dd>App 不會決定。請在群組內互相聯繫，或在 Redmine 把負責人改為個人。群組的任務完成後，也會從同群組其他人的清單中消失。</dd>
+<dt>描述中出現「h2.」「*」等符號</dt><dd>App 會把描述當作 Markdown，只整理標題、清單、粗體、連結與程式碼。以 Textile 撰寫描述的組織的 Redmine，以及表格、嵌入的圖片，會以符號原樣顯示。</dd>
 <dt>轉讓或淘汰裝置前</dt><dd>在「設定」中點「刪除連線」，即可從裝置清除 API 金鑰、留言草稿與未確認傳送的記錄。</dd>
 </dl>
 <h2 id="unsupported">不支援的項目</h2>

diff --git a/fr/privacy.html b/fr/privacy.html
@@ -11,7 +11,7 @@
 <nav class="langs" aria-label="Language"><a href="../privacy.html" hreflang="ja" lang="ja">日本語</a><a href="../en/privacy.html" hreflang="en" lang="en">English</a><span aria-current="true" lang="fr">Français</span><a href="../de/privacy.html" hreflang="de" lang="de">Deutsch</a><a href="../ko/privacy.html" hreflang="ko" lang="ko">한국어</a><a href="../zh-hant/privacy.html" hreflang="zh-Hant" lang="zh-Hant">繁體中文</a></nav>
 <p>Le développeur de BeatMine for Redmine (« l'application ») ne collecte aucune information vous concernant.</p>
 <h2>Informations traitées</h2>
-<p>l'application enregistre l'URL de Redmine et la clé d'API que vous saisissez, vos brouillons de commentaires et les traces servant à vérifier l'arrivée des envois, uniquement dans le stockage sécurisé de l'appareil (le trousseau iOS). La liste des tâches, les mises à jour du statut des tâches et les commentaires sont échangés directement entre l'appareil et votre Redmine. Le développeur n'exploite aucun serveur, et ces informations ne sont jamais transmises au développeur ni à des tiers.</p>
+<p>l'application enregistre l'URL de Redmine et la clé d'API que vous saisissez, vos brouillons de commentaires et les traces servant à vérifier l'arrivée des envois, uniquement dans le stockage sécurisé de l'appareil (le trousseau iOS). La liste des tâches, leurs descriptions et pièces jointes, les mises à jour du statut des tâches et les commentaires sont échangés directement entre l'appareil et votre Redmine. Les descriptions et les images jointes sont chargées uniquement pour être affichées et ne sont pas enregistrées sur l'appareil. Le développeur n'exploite aucun serveur, et ces informations ne sont jamais transmises au développeur ni à des tiers.</p>
 <h2>Analyse et publicité</h2>
 <p>l'application n'analyse pas l'utilisation, n'affiche pas de publicité, ne vous suit pas et ne collecte pas de rapports de plantage (sauf les informations collectées par Apple selon les réglages de l'appareil).</p>
 <h2>Suppression</h2>

diff --git a/de/privacy.html b/de/privacy.html
@@ -11,7 +11,7 @@
 <nav class="langs" aria-label="Language"><a href="../privacy.html" hreflang="ja" lang="ja">日本語</a><a href="../en/privacy.html" hreflang="en" lang="en">English</a><a href="../fr/privacy.html" hreflang="fr" lang="fr">Français</a><span aria-current="true" lang="de">Deutsch</span><a href="../ko/privacy.html" hreflang="ko" lang="ko">한국어</a><a href="../zh-hant/privacy.html" hreflang="zh-Hant" lang="zh-Hant">繁體中文</a></nav>
 <p>Der Entwickler von BeatMine for Redmine („die App“) erhebt keine Daten über Sie.</p>
 <h2>Verarbeitete Daten</h2>
-<p>Die App speichert die von Ihnen eingegebene Redmine-URL und den API-Schlüssel, Ihre Kommentarentwürfe und Aufzeichnungen zur Prüfung, ob Vorgänge angekommen sind, ausschließlich im sicheren Speicher des Geräts (iOS-Schlüsselbund). Aufgabenliste, Erledigungen und Kommentare werden direkt zwischen Gerät und Ihrem Redmine übertragen. Der Entwickler betreibt keinen Server, und diese Daten werden weder an den Entwickler noch an Dritte übermittelt.</p>
+<p>Die App speichert die von Ihnen eingegebene Redmine-URL und den API-Schlüssel, Ihre Kommentarentwürfe und Aufzeichnungen zur Prüfung, ob Vorgänge angekommen sind, ausschließlich im sicheren Speicher des Geräts (iOS-Schlüsselbund). Aufgabenliste, Beschreibungen und Anhänge der Aufgaben, Erledigungen und Kommentare werden direkt zwischen Gerät und Ihrem Redmine übertragen. Beschreibungen und angehängte Bilder werden nur zur Anzeige geladen und nicht auf dem Gerät gespeichert. Der Entwickler betreibt keinen Server, und diese Daten werden weder an den Entwickler noch an Dritte übermittelt.</p>
 <h2>Analyse und Werbung</h2>
 <p>Die App analysiert keine Nutzung, zeigt keine Werbung, verfolgt Sie nicht und erfasst keine Absturzberichte (ausgenommen Daten, die Apple gemäß den Geräteeinstellungen erhebt).</p>
 <h2>Löschen</h2>

diff --git a/privacy.html b/privacy.html
@@ -11,7 +11,7 @@
 <nav class="langs" aria-label="Language"><span aria-current="true" lang="ja">日本語</span><a href="en/privacy.html" hreflang="en" lang="en">English</a><a href="fr/privacy.html" hreflang="fr" lang="fr">Français</a><a href="de/privacy.html" hreflang="de" lang="de">Deutsch</a><a href="ko/privacy.html" hreflang="ko" lang="ko">한국어</a><a href="zh-hant/privacy.html" hreflang="zh-Hant" lang="zh-Hant">繁體中文</a></nav>
 <p>BeatMine for Redmine（以下「本アプリ」）は、利用者の情報を開発者が集めることはありません。</p>
 <h2>扱う情報</h2>
-<p>本アプリは、利用者が入力したRedmineのURLとAPIキー、コメントの下書き、送信結果を確かめるための記録を、端末の安全な保存領域（iOSのキーチェーン）にだけ保存します。タスクの一覧・完了・コメントは、端末から利用者のRedmineへ直接送受信します。開発者のサーバーはなく、これらの情報を開発者や第三者に送ることはありません。</p>
+<p>本アプリは、利用者が入力したRedmineのURLとAPIキー、コメントの下書き、送信結果を確かめるための記録を、端末の安全な保存領域（iOSのキーチェーン）にだけ保存します。タスクの一覧・説明・添付ファイル・完了・コメントは、端末から利用者のRedmineへ直接送受信します。タスクの説明と添付の画像は、表示するために読み込むだけで、端末に保存しません。開発者のサーバーはなく、これらの情報を開発者や第三者に送ることはありません。</p>
 <h2>分析・広告</h2>
 <p>利用状況の分析、広告、追跡、クラッシュ情報の収集は行いません（Appleが端末の設定に従って集める情報を除く）。</p>
 <h2>消去</h2>

diff --git a/ko/privacy.html b/ko/privacy.html
@@ -11,7 +11,7 @@
 <nav class="langs" aria-label="Language"><a href="../privacy.html" hreflang="ja" lang="ja">日本語</a><a href="../en/privacy.html" hreflang="en" lang="en">English</a><a href="../fr/privacy.html" hreflang="fr" lang="fr">Français</a><a href="../de/privacy.html" hreflang="de" lang="de">Deutsch</a><span aria-current="true" lang="ko">한국어</span><a href="../zh-hant/privacy.html" hreflang="zh-Hant" lang="zh-Hant">繁體中文</a></nav>
 <p>BeatMine for Redmine(이하 ‘본 앱’)의 개발자는 이용자의 정보를 수집하지 않습니다.</p>
 <h2>다루는 정보</h2>
-<p>본 앱은 이용자가 입력한 Redmine URL과 API 키, 댓글 임시 저장본, 전송 결과를 확인하기 위한 기록을 기기의 안전한 저장 영역(iOS 키체인)에만 저장합니다. 작업 목록·완료·댓글은 기기와 이용자의 Redmine 사이에서 직접 주고받습니다. 개발자는 서버를 운영하지 않으며, 이 정보를 개발자나 제3자에게 보내지 않습니다.</p>
+<p>본 앱은 이용자가 입력한 Redmine URL과 API 키, 댓글 임시 저장본, 전송 결과를 확인하기 위한 기록을 기기의 안전한 저장 영역(iOS 키체인)에만 저장합니다. 작업 목록·설명·첨부 파일·완료·댓글은 기기와 이용자의 Redmine 사이에서 직접 주고받습니다. 작업의 설명과 첨부된 이미지는 표시하기 위해 불러올 뿐, 기기에 저장하지 않습니다. 개발자는 서버를 운영하지 않으며, 이 정보를 개발자나 제3자에게 보내지 않습니다.</p>
 <h2>분석·광고</h2>
 <p>이용 현황 분석, 광고, 추적, 크래시(비정상 종료) 정보 수집을 하지 않습니다(Apple이 기기 설정에 따라 수집하는 정보는 제외).</p>
 <h2>삭제</h2>

diff --git a/en/privacy.html b/en/privacy.html
@@ -11,7 +11,7 @@
 <nav class="langs" aria-label="Language"><a href="../privacy.html" hreflang="ja" lang="ja">日本語</a><span aria-current="true" lang="en">English</span><a href="../fr/privacy.html" hreflang="fr" lang="fr">Français</a><a href="../de/privacy.html" hreflang="de" lang="de">Deutsch</a><a href="../ko/privacy.html" hreflang="ko" lang="ko">한국어</a><a href="../zh-hant/privacy.html" hreflang="zh-Hant" lang="zh-Hant">繁體中文</a></nav>
 <p>The developer of BeatMine for Redmine (“the app”) does not collect any information about you.</p>
 <h2>Information the app handles</h2>
-<p>The app stores the Redmine URL and API key you enter, your comment drafts, and records used to check whether updates arrived. These are stored only in the device's secure storage (the iOS Keychain). Your task list, completions and comments are sent and received directly between the device and your Redmine. The developer runs no server, and this information is never sent to the developer or any third party.</p>
+<p>The app stores the Redmine URL and API key you enter, your comment drafts, and records used to check whether updates arrived. These are stored only in the device's secure storage (the iOS Keychain). Your task list, task descriptions, attachments, completions and comments are sent and received directly between the device and your Redmine. Task descriptions and attached images are loaded only to display them and are not stored on the device. The developer runs no server, and this information is never sent to the developer or any third party.</p>
 <h2>Analytics and advertising</h2>
 <p>The app does not analyze usage, show ads, track you or collect crash reports (except information Apple collects according to your device settings).</p>
 <h2>Deletion</h2>

diff --git a/zh-hant/privacy.html b/zh-hant/privacy.html
@@ -11,7 +11,7 @@
 <nav class="langs" aria-label="Language"><a href="../privacy.html" hreflang="ja" lang="ja">日本語</a><a href="../en/privacy.html" hreflang="en" lang="en">English</a><a href="../fr/privacy.html" hreflang="fr" lang="fr">Français</a><a href="../de/privacy.html" hreflang="de" lang="de">Deutsch</a><a href="../ko/privacy.html" hreflang="ko" lang="ko">한국어</a><span aria-current="true" lang="zh-Hant">繁體中文</span></nav>
 <p>BeatMine for Redmine（以下稱「本 App」）的開發者不會收集使用者的資訊。</p>
 <h2>處理的資訊</h2>
-<p>本 App 只將使用者輸入的 Redmine URL 與 API 金鑰、留言草稿，以及用來確認傳送結果的記錄，儲存在裝置的安全儲存區（iOS 鑰匙圈）。任務清單、完成與留言，都是在裝置與使用者的 Redmine 之間直接傳送與接收。開發者不設置任何伺服器，這些資訊也不會傳送給開發者或任何第三方。</p>
+<p>本 App 只將使用者輸入的 Redmine URL 與 API 金鑰、留言草稿，以及用來確認傳送結果的記錄，儲存在裝置的安全儲存區（iOS 鑰匙圈）。任務清單、描述、附件、完成與留言，都是在裝置與使用者的 Redmine 之間直接傳送與接收。任務的描述與附件中的圖片只會為了顯示而載入，不會儲存在裝置中。開發者不設置任何伺服器，這些資訊也不會傳送給開發者或任何第三方。</p>
 <h2>分析與廣告</h2>
 <p>不進行使用情況分析、廣告、追蹤或當機資訊收集（Apple 依裝置設定收集的資訊除外）。</p>
 <h2>刪除</h2>
